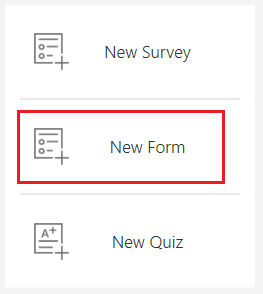
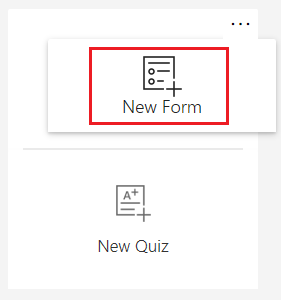
Added what's new and other updates

diff --git a/fp-docs/whats-new.md b/fp-docs/whats-new.md
@@ -1,0 +1,40 @@
+---
+title: "What's new | MicrosoftDocs"
+description: "Learn about what's new in Microsoft Forms Pro"
+keywords: ""
+author: sbmjais
+ms.author: shjais
+manager: shujoshi
+applies_to: 
+ms.date: 10/01/2019
+ms.service: forms-pro
+ms.topic: article
+ms.assetid: 6104FBF8-A032-4155-805B-4B5B5D00B30F
+ms.custom: 
+search.appverid:
+  - FPR160
+---
+
+# What's new in Microsoft Forms Pro
+
+Welcome to Microsoft Forms Pro. Here's a list of features we added and updated recently.
+
+## October 2019 update
+
+Following are the new and updated features in this release:
+
+- **Survey Rewards**: Offering an incentive when filling out a survey has been proven to be an effective way to increase the response rate. Forms Pro now includes an option for you to offer survey incentives for your survey participants to receive a code to enter monthly sweepstakes to win Microsoft Surface Laptop 2. The survey incentives option is available for customers and survey participants in the US.
+
+- **Hide question numbers**:
+
+- **Skip contact creation**:
+
+- **Switch to Forms Pro**: Dynamics 365 enterprise users can now enable Forms Pro through the option when opening account pane after clicking the profile picture on the upper-right corner of the page.
+ 
+- **PowerBI app template for customer service**: Provide end-to-end insights dashboard that links customer feedback with product and customer service agent when you are using Forms Pro to send survey following case resolution in Dynamics 365 for customer service. 
+
+- **Updated Survey Response Form in Dynamics**: View complete information about the survey when opening the survey response from Dynamics 365 activity timeline. The updated form now include sentiment, NPS score and all questions-responses on the main form  without you needing to navigate to different views.
+ 
+- **Survey embed in the email**: You can now embed selected survey questions in your email invitation, so that your survey respondent can answer directly from the email. 
+
+- **Support for 11 option scale in Likert question type**: The Likert question type is now extended to support up to 11 scale options to provide you with more flexibility when designing your survey questions.

diff --git a/fp-docs/create-classic-form.md b/fp-docs/create-classic-form.md
@@ -6,7 +6,7 @@ author: sbmjais
 ms.author: shjais
 manager: shujoshi
 applies_to: 
-ms.date: 04/26/2019
+ms.date: 10/01/2019
 ms.service: forms-pro
 ms.topic: article
 ms.assetid: 37CEB9EE-BDD7-493F-B1C9-86F009FEEEC7
@@ -17,43 +17,24 @@ search.appverid:
 
 # Create a classic form
 
-
-
 Microsoft Forms Pro allows you to create a classic form from within the Microsoft Forms Pro environment. This capability allows you to work with surveys and classic forms together. The classic forms created in Microsoft Forms Pro are opened in their interface and will have all the capabilities of basic forms. 
 
-## Enable creation of classic form
-
-To enable the capability for creating a classic form:
+To create a classic form:
 
 1. Sign in to Forms Pro.
 
-2. Select **Settings** ![Settings](media/settings-icon.png "Settings") from the upper-right corner of the page.
-
-3. Select **Show button to create classic Form**.
+2. Under **My Forms**, select **More options** (...) from the upper-right corner of the **New Pro Survey** button.
 
     > [!div class=mx-imgBorder]
     > ![Show button to create classic Form](media/classic-form-button-show.png "Show button to create classic Form") 
 
-4. The **New Form** button is added under **My Forms**.
+4. Select **New Form**.
 
     > [!div class=mx-imgBorder]
     > ![New Form button](media/new-form-button.png "New Form button") 
 
 5. To create a form, follow the steps in [Create a form with Microsoft Forms](https://support.office.com/en-us/article/create-a-form-with-microsoft-forms-4ffb64cc-7d5d-402f-b82e-b1d49418fd9d).
 
-
-## Disable creation of classic form
-
-To disable the capability for creating a classic form:
-
-1. Sign in to Forms Pro.
-
-2. Select **Settings** ![Settings](media/settings-icon.png "Settings") from the upper-right corner of the page.
-
-3. Select **Hide button to create classic Form**.
-
-    > [!div class=mx-imgBorder]
-    > ![Hide button to create classic Form](media/classic-form-button-hide.png "Hide button to create classic Form") 
 
 ## See also
 

diff --git a/fp-docs/administer.md b/fp-docs/administer.md
@@ -6,7 +6,7 @@ author: sbmjais
 ms.author: shjais
 manager: shujoshi
 applies_to: 
-ms.date: 07/01/2019
+ms.date: 10/01/2019
 ms.service: forms-pro
 ms.topic: article
 ms.assetid: 4744BE88-5FDF-4FE7-A555-0A8D83EC86F0
@@ -31,9 +31,19 @@ By default, Forms Pro is enabled for all users in your tenant. As an administrat
 
 2. Select your username from the upper-right corner of the page.
 
-3. Select **Opt out of Forms Pro**. 
+3. Select **Switch to Forms**. When you switch to Forms, you are redirected to the Microsoft Forms experience and are no longer able to edit surveys.
 
-4. Select **Yes** in the confirmation message. When you opt out, you are redirected to the Microsoft Forms experience and are no longer able to edit surveys.
+## Enable Forms Pro for users with Dynamics 365 enterprise license
+
+Microsoft Forms Pro is included as part of the Dynamics 365 enterprise license. A tenant with a Dynamics 365 enterprise license has 2000 responses per month included at the tenant level (irrespective of how many seats the tenant has). To purchase additional responses, see [Purchase additional responses for Microsoft Forms Pro users in a Dynamics 365 tenant](purchase.md#purchase-additional-responses-for-microsoft-forms-pro-users-in-a-dynamics-365-tenant).
+
+To enable Forms Pro:
+
+1. Sign in to Forms.
+
+2. Select your username from the upper-right corner of the page.
+
+3. Select **Switch to Forms Pro**.
 
 ## Turn off Forms Pro
 

diff --git a/fp-docs/purchase.md b/fp-docs/purchase.md
@@ -6,7 +6,7 @@ author: sbmjais
 ms.author: shjais
 manager: shujoshi
 applies_to: 
-ms.date: 08/06/2019
+ms.date: 10/01/2019
 ms.service: forms-pro
 ms.topic: article
 ms.assetid: 7D59D434-53F0-46A6-A00A-20BB41C69A4C
@@ -19,11 +19,11 @@ search.appverid:
 
 Microsoft Forms Pro license is based on the number of survey responses received per month. The capacity is measured at the tenant level.
  
-## Purchase Microsoft Forms Pro for users in a Dynamics 365 tenant
+## Purchase additional responses for Microsoft Forms Pro users in a Dynamics 365 tenant
 
 Microsoft Forms Pro is included as part of the Dynamics 365 enterprise license. A tenant with a Dynamics 365 enterprise license has 2000 responses per month included at the tenant level (irrespective of how many seats the tenant has).
  
-You can purchase more capacity from the Microsoft 365 admin center.
+You can purchase additional responses from the Microsoft 365 admin center.
  
 1.	Go to the [Microsoft 365 admin center](https://admin.microsoft.com/). 
 

diff --git a/fp-docs/create-new-survey.md b/fp-docs/create-new-survey.md
@@ -6,7 +6,7 @@ author: sbmjais
 ms.author: shjais
 manager: shujoshi
 applies_to: 
-ms.date: 04/26/2019
+ms.date: 10/01/2019
 ms.service: forms-pro
 ms.topic: article
 ms.assetid: EA713CA9-6B0B-45A3-A700-22C164465411
@@ -17,13 +17,11 @@ search.appverid:
 
 # Create a new survey
 
-
-
 To create a new survey with Forms Pro:
 
 1.	Sign in to Forms Pro with your Office 365 credentials.
 
-2.	Under **My Forms**, select **New Survey**.
+2.	Under **My Forms**, select **New Pro Survey**.
 
     > [!div class=mx-imgBorder]
     > ![New survey](media/new-survey-button.png "New survey") 
